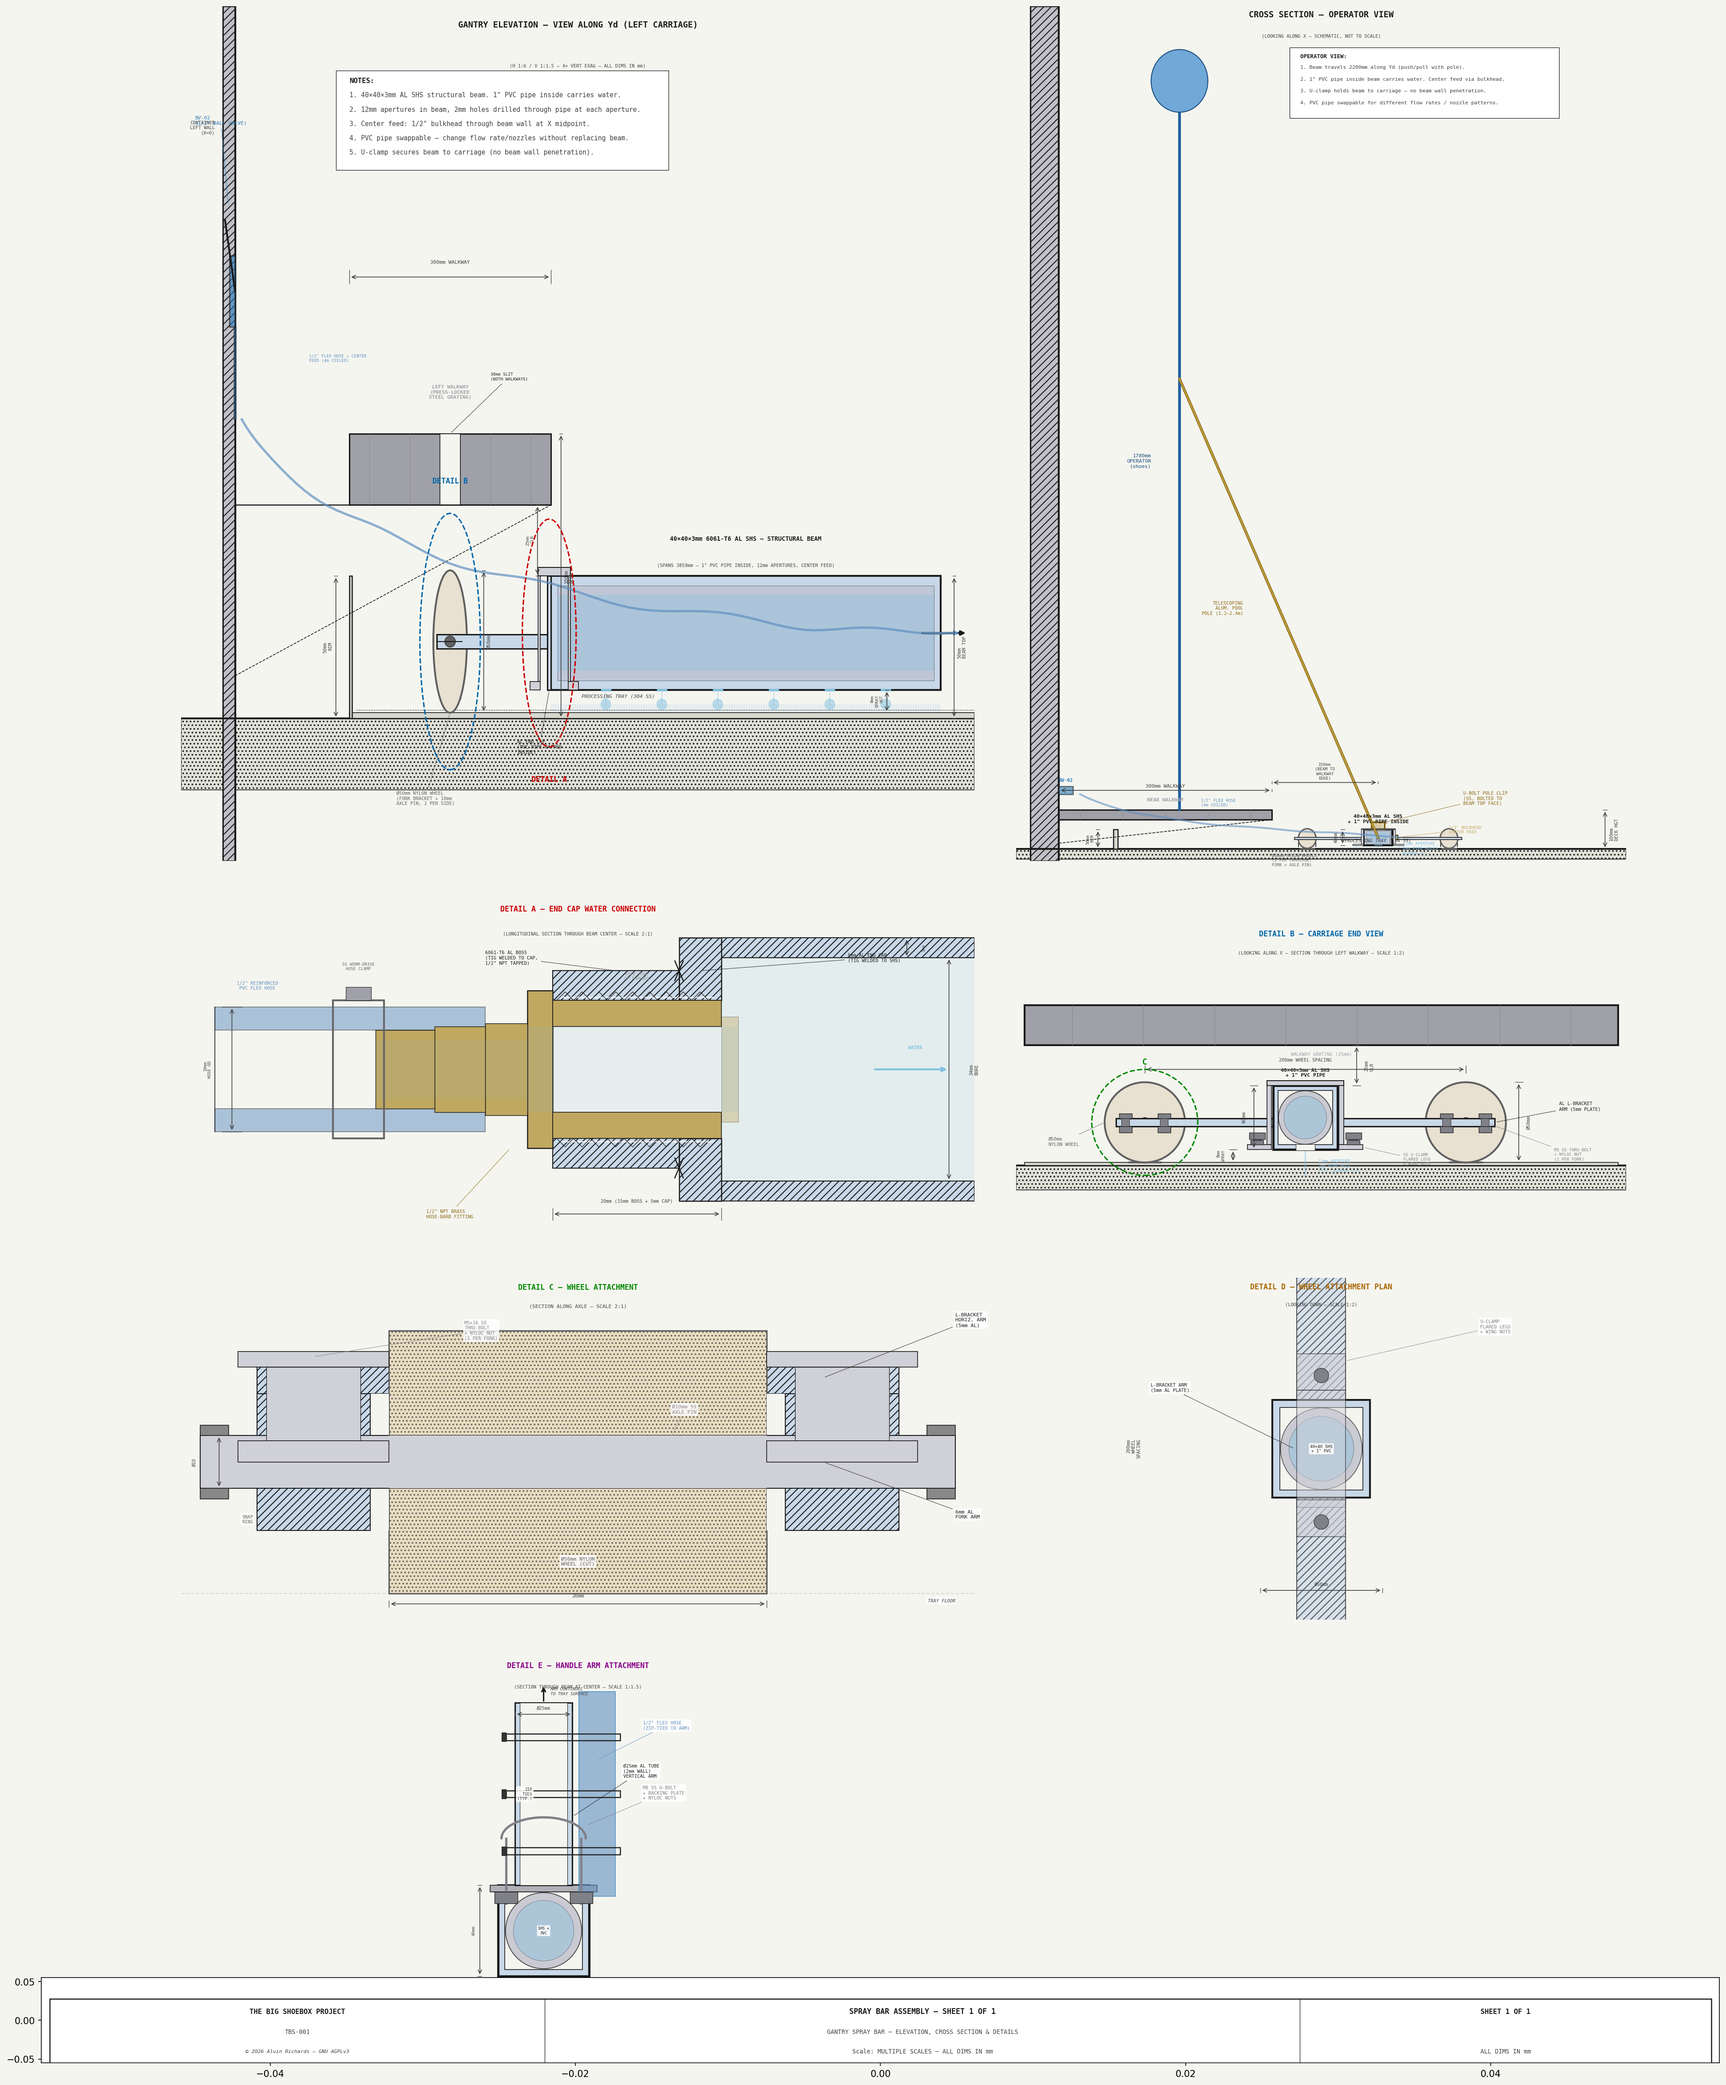
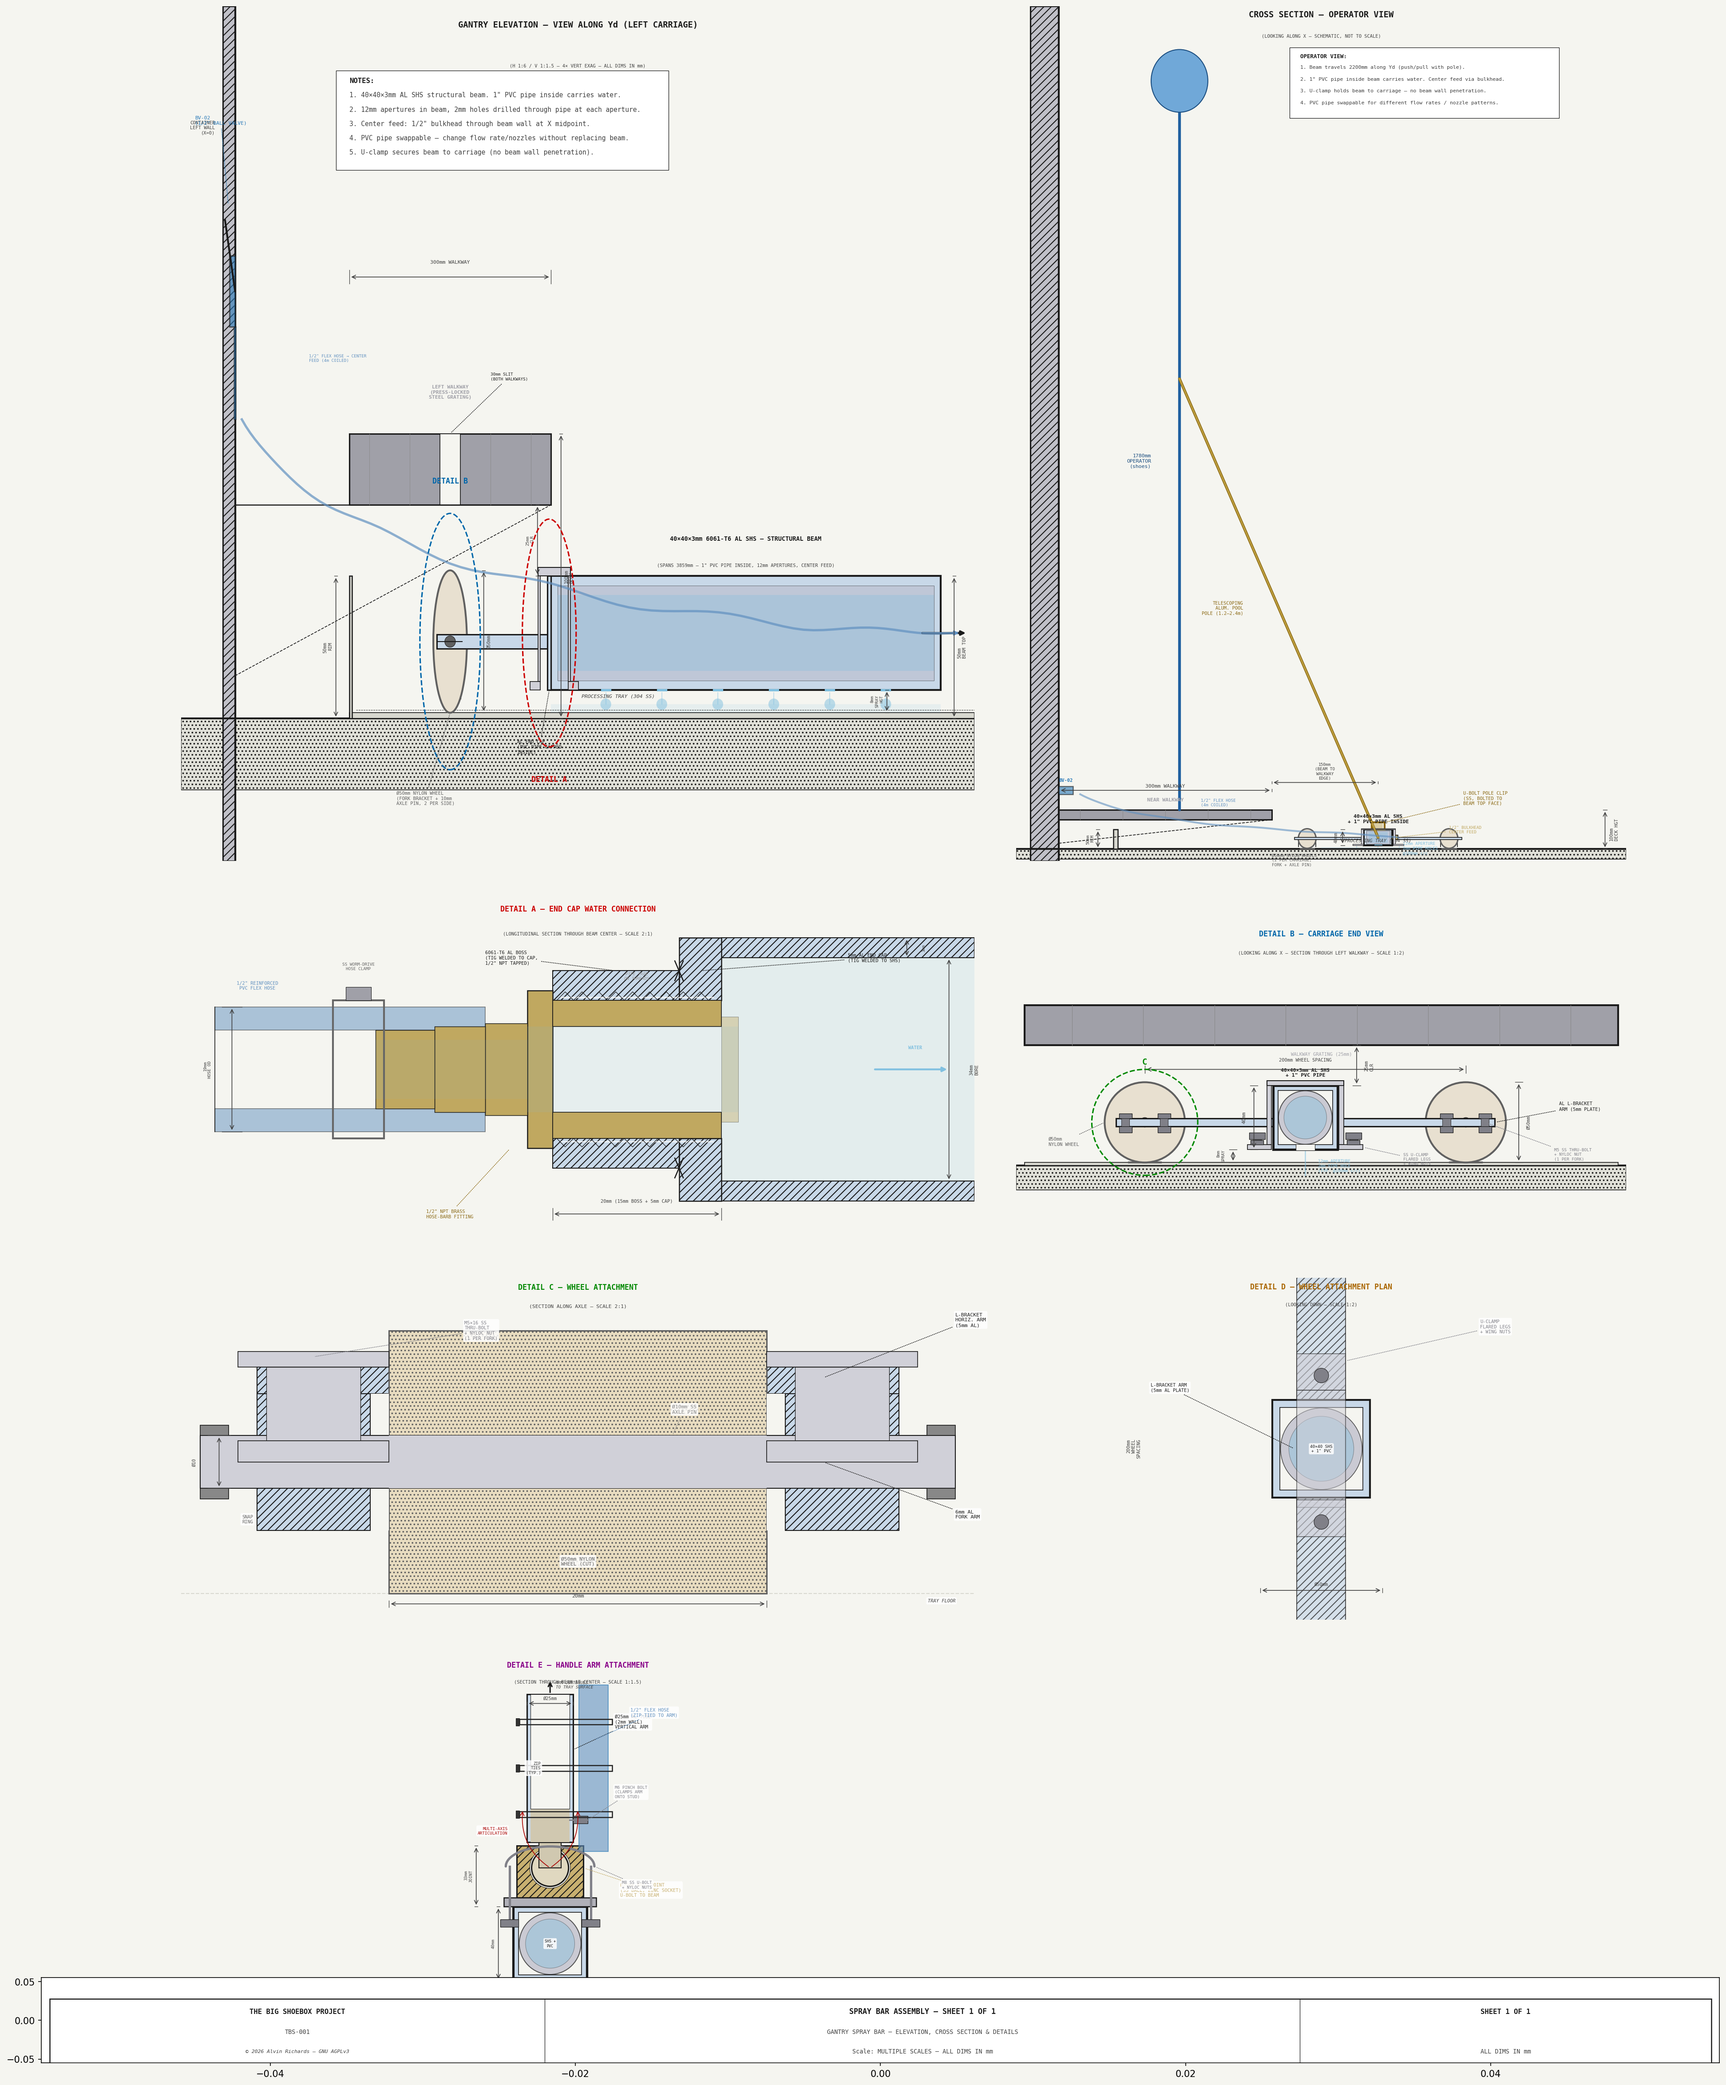
Detail E: replace rigid U-bolt mount with ball joint for multi-axis arm articulation
Ball joint assembly: SS ball in zinc socket housing, U-bolt clamping
socket to beam top face via saddle plate, arm tube onto stud with M6
pinch bolt. Red arcs show articulation range.

Changed region(s): [[0.2801, 0.8083, 0.3735, 0.9638]]

diff --git a/generate_spray_bar_diagram.py b/generate_spray_bar_diagram.py
@@ -1461,8 +1461,8 @@ draw_dim_h(ax_d, px(-WHEEL_DIA / 2), px(WHEEL_DIA / 2),
 
 # ─────────────────────────────────────────────────────────────────────────────
 # DETAIL E — Handle / arm attachment (section through beam at center)
-# Shows round tube arm on top of beam, water hose zip-tied to arm,
-# U-bolt clamp securing arm to beam top face.
+# Shows ball joint on beam top face, round tube arm extending upward,
+# water hose zip-tied to arm.
 # ─────────────────────────────────────────────────────────────────────────────
 ax_e = fig.add_subplot(gs[3, 0])
 ax_e.set_facecolor(C_BG)
@@ -1473,7 +1473,7 @@ SC_E = 1.5
 E_YD_LO = -60
 E_YD_HI = 90
 E_Z_LO = -10
-E_Z_HI = 140
+E_Z_HI = 175
 
 ax_e.set_xlim(E_YD_LO / SC_E, E_YD_HI / SC_E)
 ax_e.set_ylim(E_Z_LO / SC_E, E_Z_HI / SC_E)
@@ -1526,23 +1526,108 @@ ax_e.text(ey(e_beam_ctr), ez(e_beam_bot + BEAM_W / 2),
           ha="center", va="center", fontsize=4, color=C_FRAME,
           bbox=_bbox_e, **FONT, zorder=15)
 
-# ── Round tube arm (vertical, on top of beam) ─────────────────────────
+# ── Ball joint on beam top face ───────────────────────────────────────
+BALL_DIA = 20       # ball diameter (mm)
+SOCKET_OD = 36      # socket housing outer diameter
+SOCKET_H = 28       # socket housing height (base to top rim)
+FLANGE_W = 50       # mounting flange width
+FLANGE_T = 5        # flange thickness
+STUD_DIA = 12       # stud extending from ball
+STUD_EXT = 20       # stud length above socket top
+C_JOINT = "#C8B070"
+
+beam_top_z = e_beam_bot + BEAM_W
+flange_bot_z = beam_top_z
+socket_bot_z = flange_bot_z + FLANGE_T
+ball_ctr_z = socket_bot_z + SOCKET_H / 2 + 2
+socket_top_z = socket_bot_z + SOCKET_H
+stud_top_z = socket_top_z + STUD_EXT
+
+# Saddle plate between beam top and socket (load distribution)
+ax_e.add_patch(Rectangle((ey(e_beam_ctr - FLANGE_W / 2), ez(flange_bot_z)),
+                           FLANGE_W / SC_E, FLANGE_T / SC_E,
+                           fc="#B0B0B8", ec=C_FRAME, lw=1.2, zorder=7))
+
+# U-bolt wrapping over socket housing, legs through beam top face
+ubolt_gap = 2
+ubolt_t = 4
+ubolt_l = e_beam_ctr - SOCKET_OD / 2 - ubolt_gap - ubolt_t
+ubolt_r = e_beam_ctr + SOCKET_OD / 2 + ubolt_gap + ubolt_t
+
+# U-bolt arc over socket
+ub_arc = np.linspace(0, np.pi, 30)
+ub_arc_r = (ubolt_r - ubolt_l) / 2
+ub_arc_cz = socket_bot_z + SOCKET_H * 0.6
+ub_arc_yd = e_beam_ctr + ub_arc_r * np.cos(ub_arc)
+ub_arc_z = ub_arc_cz + ub_arc_r * 0.45 * np.sin(ub_arc)
+ax_e.plot([ey(y) for y in ub_arc_yd], [ez(z) for z in ub_arc_z],
+          color=C_BOLT, lw=2.5, zorder=9, solid_capstyle="round")
+
+# Left leg of U-bolt
+ax_e.plot([ey(ubolt_l + ubolt_t / 2), ey(ubolt_l + ubolt_t / 2)],
+          [ez(ub_arc_cz), ez(beam_top_z - BEAM_T - 5)],
+          color=C_BOLT, lw=2.5, zorder=9)
+# Right leg
+ax_e.plot([ey(ubolt_r - ubolt_t / 2), ey(ubolt_r - ubolt_t / 2)],
+          [ez(ub_arc_cz), ez(beam_top_z - BEAM_T - 5)],
+          color=C_BOLT, lw=2.5, zorder=9)
+
+# Nuts below beam top flange
+for nut_yd in [ubolt_l + ubolt_t / 2, ubolt_r - ubolt_t / 2]:
+    ax_e.add_patch(Rectangle((ey(nut_yd - 5), ez(beam_top_z - BEAM_T - 8)),
+                               10 / SC_E, 4 / SC_E,
+                               fc=C_BOLT, ec=C_FRAME, lw=0.6, zorder=10))
+
+# Socket housing (sectioned — hatched)
+ax_e.add_patch(Rectangle((ey(e_beam_ctr - SOCKET_OD / 2), ez(socket_bot_z)),
+                           SOCKET_OD / SC_E, SOCKET_H / SC_E,
+                           fc=C_JOINT, ec=C_FRAME, lw=1.5, hatch="///",
+                           zorder=6))
+# Socket bore (cavity for ball)
+bore_r = BALL_DIA / 2 + 1
+ax_e.add_patch(Circle((ey(e_beam_ctr), ez(ball_ctr_z)),
+                         bore_r / SC_E,
+                         fc=C_BG, ec=C_FRAME, lw=0.5, zorder=6.5))
+
+# Ball
+ax_e.add_patch(Circle((ey(e_beam_ctr), ez(ball_ctr_z)),
+                         BALL_DIA / 2 / SC_E,
+                         fc="#E0D8C0", ec=C_FRAME, lw=1.5, zorder=7))
+
+# Stud extending upward from ball
+ax_e.add_patch(Rectangle((ey(e_beam_ctr - STUD_DIA / 2), ez(ball_ctr_z)),
+                           STUD_DIA / SC_E, (stud_top_z - ball_ctr_z) / SC_E,
+                           fc="#D0C8B0", ec=C_FRAME, lw=1.0, zorder=7.5))
+
+# ── Round tube arm (clamped onto stud with pinch bolt) ────────────────
 ARM_OD = 25    # 25mm OD round tube (1" nominal)
 ARM_WALL = 2   # 2mm wall thickness
 ARM_ID = ARM_OD - 2 * ARM_WALL
-arm_base_z = e_beam_bot + BEAM_W  # sits on top of beam
-arm_top_z = arm_base_z + 80       # show ~80mm of arm height in this detail
+arm_base_z = stud_top_z - STUD_EXT + 2
+arm_top_z = arm_base_z + 80
 
-# Arm tube (rectangle cross-section in elevation)
+# Arm tube
 ax_e.add_patch(Rectangle((ey(e_beam_ctr - ARM_OD / 2), ez(arm_base_z)),
                            ARM_OD / SC_E, (arm_top_z - arm_base_z) / SC_E,
                            fc=C_ALUM_FILL, ec=C_FRAME, lw=1.5, zorder=8))
-# Interior bore
+# Interior bore (stud visible inside)
 ax_e.add_patch(Rectangle((ey(e_beam_ctr - ARM_ID / 2), ez(arm_base_z)),
-                           ARM_ID / SC_E, (arm_top_z - arm_base_z) / SC_E,
+                           ARM_ID / SC_E, (stud_top_z - arm_base_z) / SC_E,
+                           fc="#D0C8B0", ec="none", zorder=8.3))
+ax_e.add_patch(Rectangle((ey(e_beam_ctr - ARM_ID / 2), ez(stud_top_z)),
+                           ARM_ID / SC_E, (arm_top_z - stud_top_z) / SC_E,
                            fc=C_BG, ec=C_FRAME, lw=0.5, zorder=8.5))
 
-# Continuation arrow (arm extends upward)
+# Pinch bolt through arm tube wall (clamps onto stud)
+pinch_z = arm_base_z + 12
+ax_e.add_patch(Rectangle((ey(e_beam_ctr + ARM_OD / 2), ez(pinch_z - 2)),
+                           8 / SC_E, 4 / SC_E,
+                           fc=C_BOLT, ec=C_FRAME, lw=0.6, zorder=9))
+ax_e.plot([ey(e_beam_ctr + ARM_ID / 2), ey(e_beam_ctr + ARM_OD / 2 + 8)],
+          [ez(pinch_z), ez(pinch_z)],
+          color=C_BOLT, lw=1.5, zorder=9)
+
+# Continuation arrow
 ax_e.annotate("", xy=(ey(e_beam_ctr), ez(arm_top_z + 8)),
               xytext=(ey(e_beam_ctr), ez(arm_top_z)),
               arrowprops=dict(arrowstyle="->", color=C_FRAME, lw=1.5),
@@ -1552,51 +1637,40 @@ ax_e.text(ey(e_beam_ctr + 3), ez(arm_top_z + 5),
           ha="left", va="center", fontsize=4.5, color=C_DIM,
           style="italic", **FONT, zorder=15)
 
-# ── U-bolt clamping arm to beam top face ──────────────────────────────
-# Small U-bolt wraps around arm tube, legs go through beam top flange
-ubolt_gap = 2
-ubolt_t = 4    # rod diameter
-ubolt_l = e_beam_ctr - ARM_OD / 2 - ubolt_gap - ubolt_t
-ubolt_r = e_beam_ctr + ARM_OD / 2 + ubolt_gap + ubolt_t
+# Movement arcs (show ball joint articulation range)
+for arc_ang in [-25, 25]:
+    ang_rad = np.radians(arc_ang)
+    arc_len = 35
+    ax_e.annotate("",
+        xy=(ey(e_beam_ctr + arc_len * np.sin(ang_rad)),
+            ez(ball_ctr_z + arc_len * np.cos(ang_rad))),
+        xytext=(ey(e_beam_ctr), ez(ball_ctr_z)),
+        arrowprops=dict(arrowstyle="->", color="#AA0000", lw=0.8,
+                        connectionstyle=f"arc3,rad={0.3 if arc_ang > 0 else -0.3}"),
+        zorder=12)
+ax_e.text(ey(e_beam_ctr - SOCKET_OD / 2 - 5), ez(ball_ctr_z + 20),
+          "MULTI-AXIS\nARTICULATION",
+          ha="right", va="center", fontsize=4.5, color="#AA0000",
+          bbox=_bbox_e, **FONT, zorder=15)
 
-# Top arc (U-bolt over arm)
-arc_angles = np.linspace(0, np.pi, 30)
-arc_r_yd = (ubolt_r - ubolt_l) / 2
-arc_ctr_yd = e_beam_ctr
-arc_ctr_z = arm_base_z + ARM_OD / 2 + 8
-arc_yd = arc_ctr_yd + arc_r_yd * np.cos(arc_angles)
-arc_z = arc_ctr_z + arc_r_yd * 0.5 * np.sin(arc_angles)
-ax_e.plot([ey(y) for y in arc_yd], [ez(z) for z in arc_z],
-          color=C_BOLT, lw=2.5, zorder=9, solid_capstyle="round")
+# Leaders
+leader(ax_e, ey(e_beam_ctr + SOCKET_OD / 2), ez(ball_ctr_z),
+       ey(e_beam_ctr + SOCKET_OD / 2 + 20), ez(ball_ctr_z - 12),
+       f"Ø{BALL_DIA}mm BALL JOINT\n(SS BALL, ZINC SOCKET)\nU-BOLT TO BEAM",
+       fs=5, color=C_JOINT, font=FONT, zorder=20, bbox=_bbox_e)
 
-# Left leg of U-bolt (goes down through beam top flange)
-ax_e.plot([ey(ubolt_l + ubolt_t / 2), ey(ubolt_l + ubolt_t / 2)],
-          [ez(arc_ctr_z), ez(arm_base_z - BEAM_T - 5)],
-          color=C_BOLT, lw=2.5, zorder=9)
-# Right leg
-ax_e.plot([ey(ubolt_r - ubolt_t / 2), ey(ubolt_r - ubolt_t / 2)],
-          [ez(arc_ctr_z), ez(arm_base_z - BEAM_T - 5)],
-          color=C_BOLT, lw=2.5, zorder=9)
+leader(ax_e, ey(ubolt_r), ez(ub_arc_cz),
+       ey(ubolt_r + 15), ez(ub_arc_cz - 10),
+       "M8 SS U-BOLT\n+ NYLOC NUTS",
+       fs=4.5, color=C_BOLT, font=FONT, zorder=20, bbox=_bbox_e)
 
-# Nuts below beam top flange
-for nut_yd in [ubolt_l + ubolt_t / 2, ubolt_r - ubolt_t / 2]:
-    ax_e.add_patch(Rectangle((ey(nut_yd - 5), ez(arm_base_z - BEAM_T - 5)),
-                               10 / SC_E, 5 / SC_E,
-                               fc=C_BOLT, ec=C_FRAME, lw=0.6, zorder=10))
+leader(ax_e, ey(e_beam_ctr + ARM_OD / 2 + 8), ez(pinch_z),
+       ey(e_beam_ctr + 35), ez(pinch_z + 15),
+       "M6 PINCH BOLT\n(CLAMPS ARM\nONTO STUD)",
+       fs=4.5, color=C_BOLT, font=FONT, zorder=20, bbox=_bbox_e)
 
-# Backing plate (steel plate under beam top flange, distributes load)
-plate_w = ubolt_r - ubolt_l + 10
-ax_e.add_patch(Rectangle((ey(e_beam_ctr - plate_w / 2), ez(arm_base_z - 3)),
-                           plate_w / SC_E, 3 / SC_E,
-                           fc="#B0B0B8", ec=C_FRAME, lw=0.8, zorder=7))
-
-leader(ax_e, ey(ubolt_r), ez(arc_ctr_z + arc_r_yd * 0.3),
-       ey(ubolt_r + 25), ez(arc_ctr_z + 20),
-       "M8 SS U-BOLT\n+ BACKING PLATE\n+ NYLOC NUTS",
-       fs=5, color=C_BOLT, font=FONT, zorder=20, bbox=_bbox_e)
-
-leader(ax_e, ey(e_beam_ctr + ARM_OD / 2), ez(arm_base_z + 30),
-       ey(e_beam_ctr + 35), ez(arm_base_z + 50),
+leader(ax_e, ey(e_beam_ctr + ARM_OD / 2), ez(arm_base_z + 50),
+       ey(e_beam_ctr + 35), ez(arm_base_z + 65),
        f"Ø{ARM_OD}mm AL TUBE\n(2mm WALL)\nVERTICAL ARM",
        fs=5, color=C_FRAME, font=FONT, zorder=20, bbox=_bbox_e)
 
@@ -1639,8 +1713,12 @@ draw_dim_h(ax_e, ey(e_beam_ctr - ARM_OD / 2), ey(e_beam_ctr + ARM_OD / 2),
            ez(arm_top_z - 5),
            f"Ø{ARM_OD}mm", offset=3 / SC_E, fs=5, font=FONT)
 
-draw_dim_v(ax_e, ey(e_beam_l - 8), ez(e_beam_bot), ez(arm_base_z),
+draw_dim_v(ax_e, ey(e_beam_l - 8), ez(e_beam_bot), ez(e_beam_bot + BEAM_W),
            f"{BEAM_W}mm", offset=3 / SC_E, fs=4.5, font=FONT)
+
+draw_dim_v(ax_e, ey(e_beam_l - 20), ez(e_beam_bot + BEAM_W), ez(socket_top_z),
+           f"{int(socket_top_z - beam_top_z)}mm\nJOINT",
+           offset=3 / SC_E, fs=4.5, font=FONT)
 
 # ── Full-width title block ────────────────────────────────────────────────
 ax_tb = fig.add_axes([0.05, 0.005, 0.90, 0.04])
